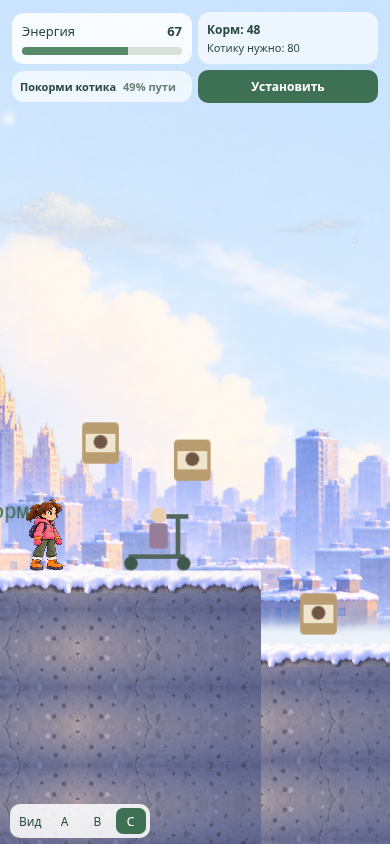
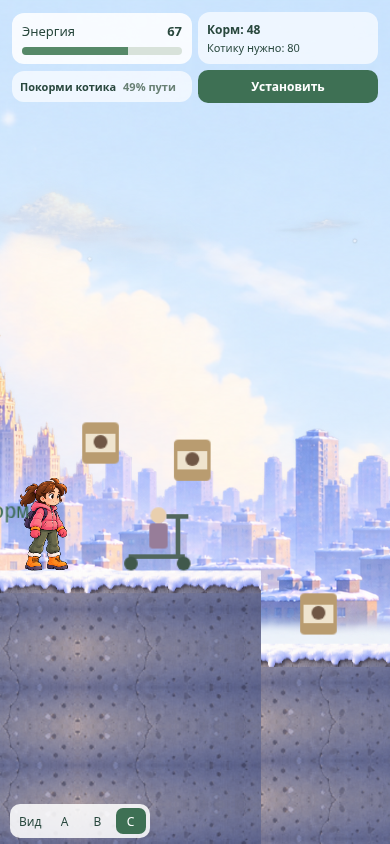
Increase Tanya visual size by 30 percent

Changed region(s): [[0.0308, 0.5545, 0.1846, 0.6777]]

diff --git a/src/tanya-visual.ts b/src/tanya-visual.ts
@@ -9,7 +9,7 @@ export const tanyaArt = {
   key: 'tanya:stand', file: 'assets/characters/tanya/tanya-stand.png',
   sourceWidth: 1024, sourceHeight: 1536,
   frame: { x: 150, y: 49, width: 762, height: 1387 },
-  renderedHeight: 62, rasterHeight: 248, rasterWidth: 138,
+  renderedHeight: 80.6, rasterHeight: 248, rasterWidth: 138,
   displayKey: 'tanya:stand-display',
 };
 type TanyaPose = { key: string; frame: string; renderedHeight: number };

diff --git a/GAME_DESIGN.md b/GAME_DESIGN.md
@@ -1570,3 +1570,13 @@ Nine regression policies preserve pre-integration food/hazard/recovery outcomes;
 foot anchors, zero-energy behavior, platforms, pits, bench and offline asset load
 are tested. See docs/tanya/README.md for dimensions, missing production poses,
 mobile captures and limitations. Stop for manual phone testing.
+
+
+## 34. Approved visual-only +30% scale experiment
+
+The latest phone request increases only the heroine art from34.5×62 to
+44.85×80.6 world px; cached138×248 texture stays, scale0.25→0.325.
+Keep bottom-center anchoring,24×50 body/offset8,4, carrier dimensions, physics,
+level geometry, objects, camera and energy unchanged. Do not adapt platforms
+or passages to the larger artwork in this pass. This overrides §33's rendered
+size/visual clearance statement; the physical clearance is unchanged.

diff --git a/docs/tanya/README.md b/docs/tanya/README.md
@@ -1,5 +1,10 @@
 # Tanya — static character integration
 
+> Latest phone request: visual size increased by30% to44.85×80.6 world px
+> (prepared texture scale0.325). Physics/body, foot anchor, camera and level
+> remain unchanged. The original62px sizing audit below is historical; no
+> geometry adaptation is part of this experiment.
+
 This pass changes presentation only. The current level, physics, energy, pickups,
 enemies and camera remain the technical base. No new animation is fabricated.
 
